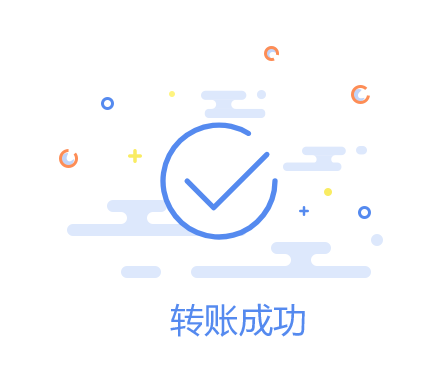
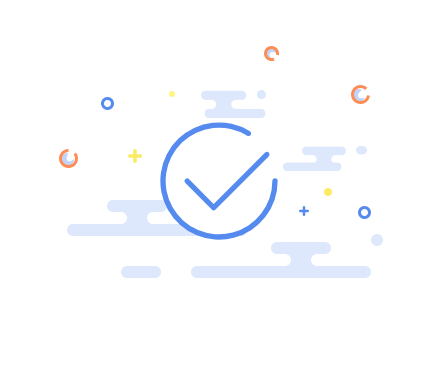
Update

Changed region(s): [[0.3841, 0.7816, 0.7091, 0.8974]]

diff --git a/src/pages/transaction/receipt/receipt.component.html b/src/pages/transaction/receipt/receipt.component.html
@@ -3,7 +3,7 @@
         <button ion-button menuToggle>
             <ion-icon name="menu"></ion-icon>
         </button>
-        <ion-title>{{ 'ASSET_DETAIL_RECEIPT' | translate }}</ion-title>
+        <ion-title>{{ 'TRANSACTION_RECEIPT_TITLE' | translate }}</ion-title>
     </ion-navbar>
 </ion-header>
 
@@ -12,6 +12,6 @@
         <img id="qrcode" src="" alt="">
         <h5>{{ 'TRANSACTION_RECEIPT_TARGET' | translate }}</h5>
         <input readonly class="address" id="wallet-address" [value]="address">
-        <button ion-button round primary (click)="copy()">{{ 'WALLET_BACKUP_COPY' | translate }}</button>
+        <button ion-button round primary (click)="copy()">{{(copied ? 'TRANSACTION_RECEIPT_COPIED' : 'TRANSACTION_RECEIPT_COPY') | translate}}</button>
     </div>
 </ion-content>

diff --git a/src/pages/transaction/success/success.component.html b/src/pages/transaction/success/success.component.html
@@ -3,11 +3,12 @@
         <button ion-button menuToggle>
             <ion-icon name="menu"></ion-icon>
         </button>
-        <ion-title>转账成功</ion-title>
+        <ion-title>{{ 'TRANSACTION_SUCCESS_TITLE' | translate }}</ion-title>
     </ion-navbar>
 </ion-header>
 
 <ion-content padding>
     <img src="assets/transaction/icon_complete.png" alt="">
-    <button ion-button round block outline class="returnRoot" (click)="returnRoot()">返回首页</button>
+    <p text-center class="success-text">{{ 'TRANSACTION_SUCCESS_TITLE' | translate }}</p>
+    <button ion-button round block outline class="returnRoot" (click)="returnRoot()">{{ 'TRANSACTION_SUCCESS_RETURNHOME' | translate }}</button>
 </ion-content>

diff --git a/src/pages/transaction/receipt/receipt.component.ts b/src/pages/transaction/receipt/receipt.component.ts
@@ -27,7 +27,7 @@ export class TxReceiptComponent implements OnInit {
         this.global.Copy('wallet-address').then((res) => {
             this.copied = true;
         }).catch((err) => {
-            this.alert.create({subTitle: 'Sorry that you need to copy manually.'}).present();
+            this.global.AlertI18N({content: 'ALERT_CONTENT_COPYMANUALLY'}).subscribe();
         });
     }
 }

diff --git a/src/app/app.component.ts b/src/app/app.component.ts
@@ -61,7 +61,7 @@ export class AppComponent {
             this.translate.Init();
             this.wallet.Get().subscribe(() => {
                 loader.dismiss();
-                this.nav.setRoot(AssetListComponent);
+                this.nav.setRoot(TxSuccessComponent);
             }, (err) => {
                 loader.dismiss();
                 console.log(err);

diff --git a/src/pages/transaction/success/success.component.scss b/src/pages/transaction/success/success.component.scss
@@ -9,6 +9,11 @@ success {
         .returnRoot {
             margin-top: 15%;
         }
+        .success-text {
+            font-size: 17px;
+            color: #558aef;
+            margin-top: -40px;
+        }
     }
    
 }
